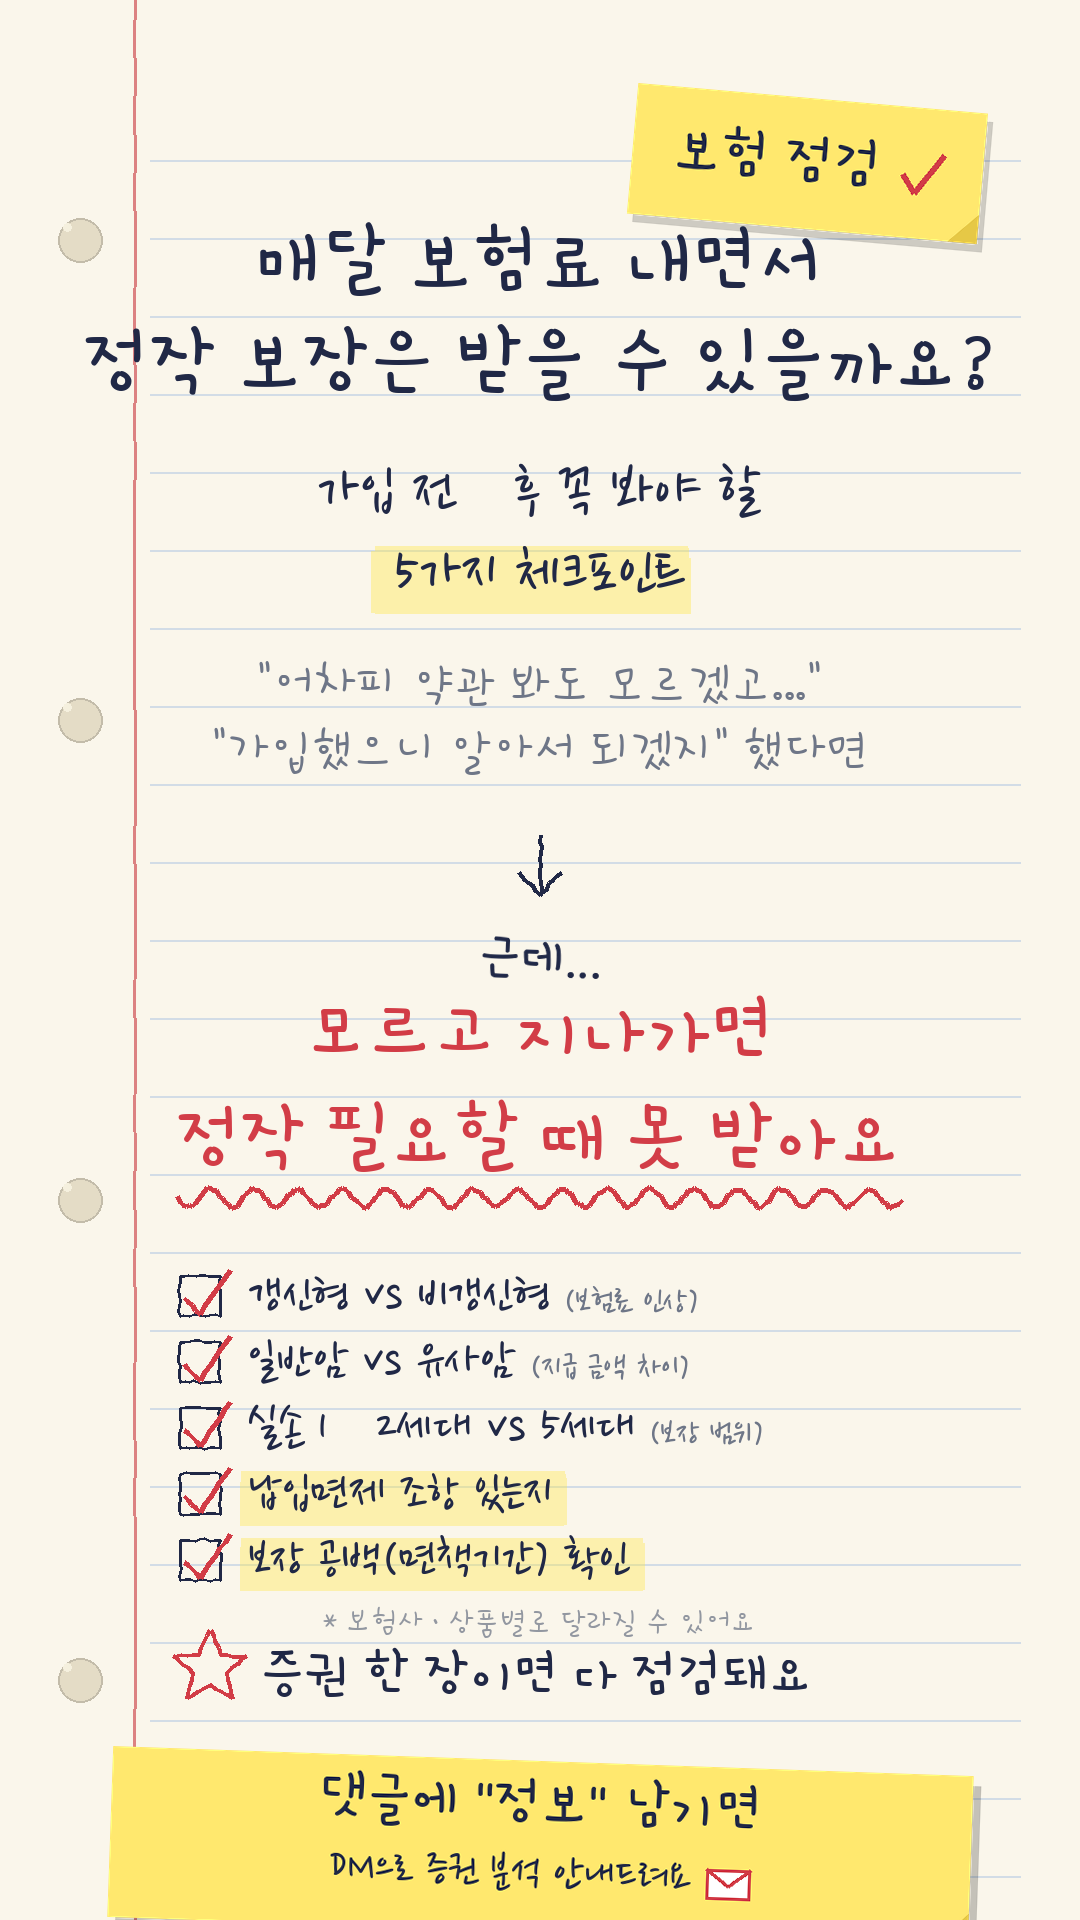
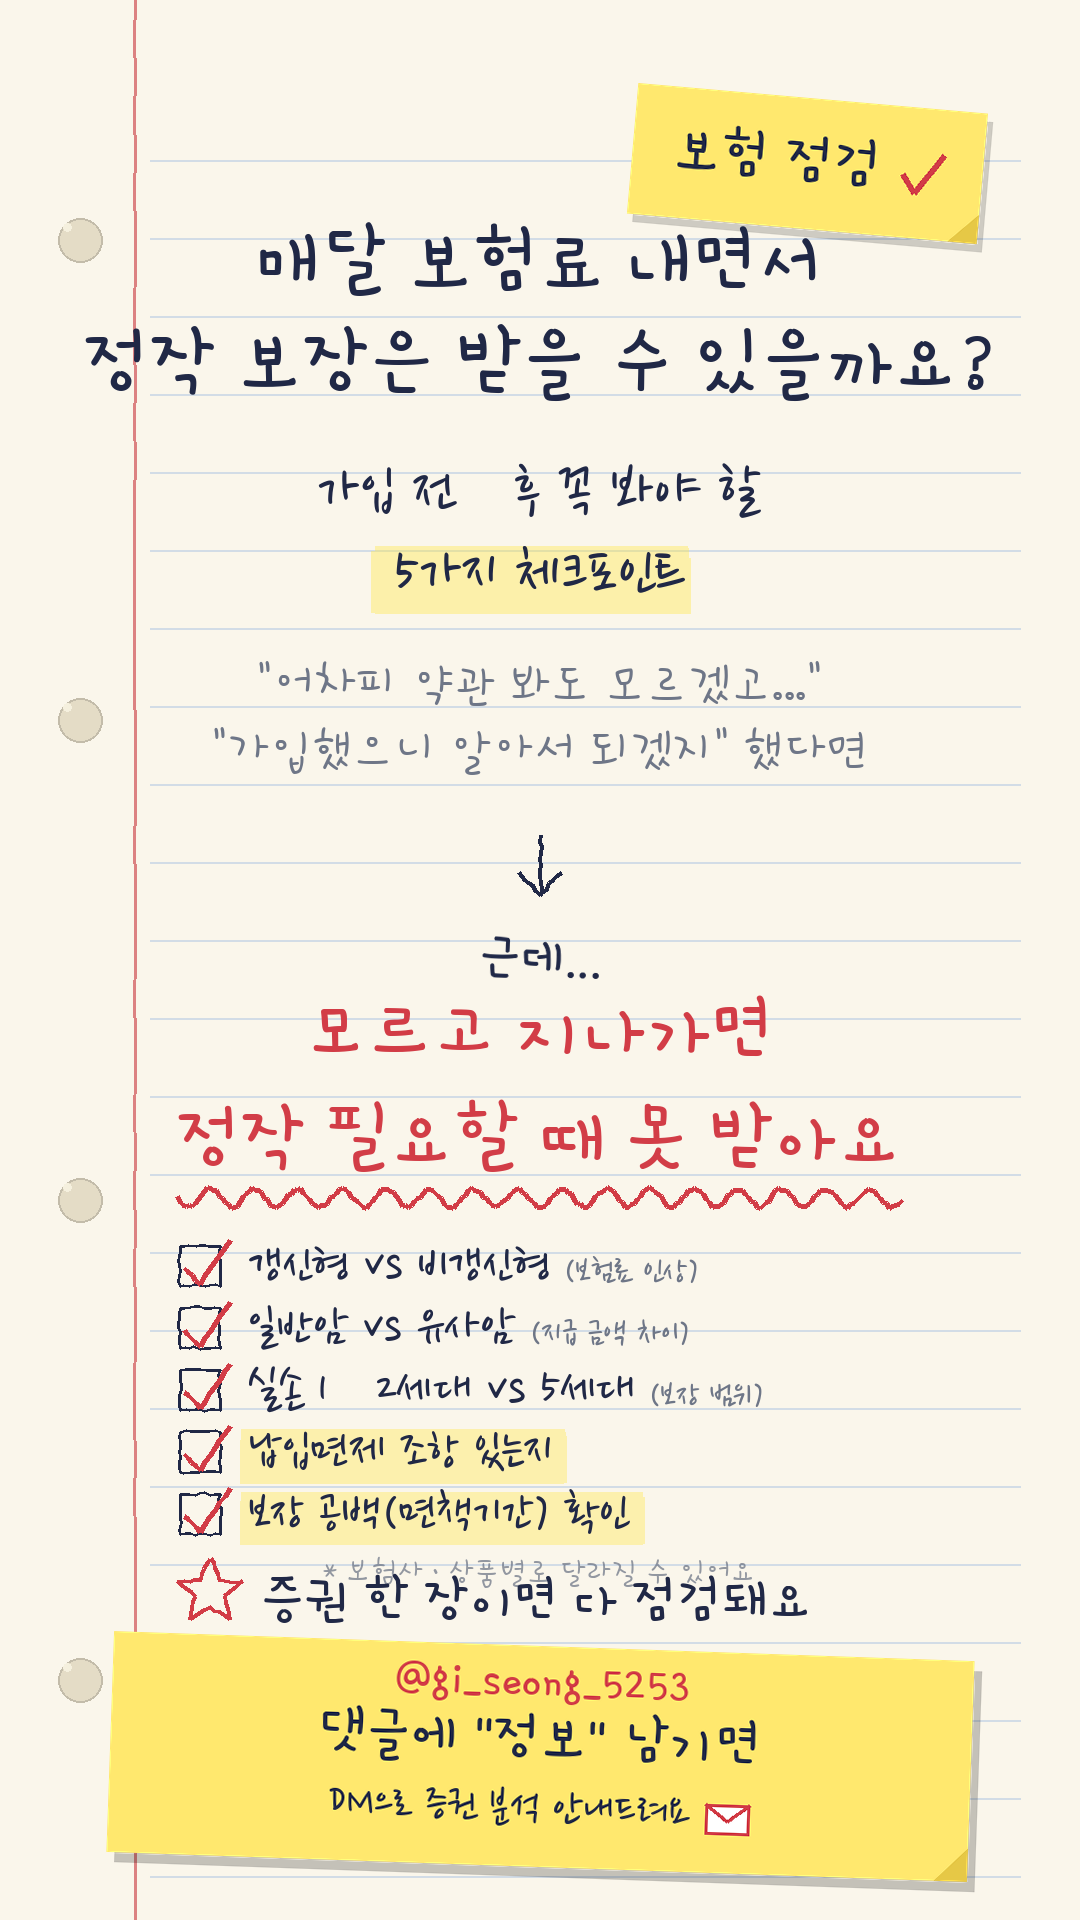
Inject @gi_seong_5253 into Reels CTA + project rule
- Add Instagram ID line (red ink) at top of the bottom CTA sticky in
  reels_01; reflow checklist/star/CTA so they don't overlap.
- Save the rule in CLAUDE.md so future reels always inject the ID.
- Add reels/.gitignore for frames and mp4 output.

https://claude.ai/code/session_01AequftvsX574ZnpuaftTum

Changed region(s): [[0.0917, 0.625, 0.9167, 1.0]]

diff --git a/reels/scripts/reels_01_check.py b/reels/scripts/reels_01_check.py
@@ -192,10 +192,10 @@ def draw_checklist(base, progress_per_item):
     ]
     font = f(NANUM_P, 52)
     sub_font = f(NANUM_P, 36)
-    y_start = 1270
+    y_start = 1240
     x_box = 180
     x_text = 248
-    row_h = 66
+    row_h = 62
 
     for i, (title, sub, hl) in enumerate(items):
         box_p, check_p = progress_per_item[i]
@@ -256,9 +256,9 @@ def draw_checklist(base, progress_per_item):
     base.alpha_composite(layer, (0, y_start + 5 * row_h + 6))
 
 def draw_star_bonus(base, star_progress=1.0, text_progress=1.0):
-    sx, sy = 210, 1668
+    sx, sy = 210, 1592
     if star_progress > 0:
-        size = 38
+        size = 34
         pts = []
         for i in range(10):
             angle = -math.pi/2 + i * math.pi/5
@@ -277,35 +277,41 @@ def draw_star_bonus(base, star_progress=1.0, text_progress=1.0):
         ld = ImageDraw.Draw(layer)
         text = "증권 한 장이면 다 점검돼요"
         ld.text((0, 0), text, fill=INK+(a,), font=font)
-        base.alpha_composite(layer, (260, 1646))
+        base.alpha_composite(layer, (260, 1572))
 
 def draw_cta(base, progress=1.0):
     if progress <= 0: return
     off = int(60 * (1 - progress))
     a = int(255 * progress)
-    sw, sh = 860, 170
+    sw, sh = 860, 220
     pad = 30
     layer = Image.new('RGBA', (sw+pad*2, sh+pad*2), (0,0,0,0))
     ld = ImageDraw.Draw(layer)
     ld.rectangle([pad+8, pad+10, pad+sw+8, pad+sh+10], fill=(0,0,0,55))
     ld.rectangle([pad, pad, pad+sw, pad+sh], fill=STICKY+(a,))
     ld.polygon([(pad+sw, pad+sh-32), (pad+sw, pad+sh), (pad+sw-32, pad+sh)], fill=STICKY_DK+(a,))
+    font_id  = f(GAMJA_P, 50)
     font_big = f(GAMJA_P, 58)
     font_med = f(NANUM_P, 46)
-    line1 = '댓글에 "정보" 남기면'
-    line2 = "DM으로 증권 분석 안내드려요"
-    b1 = ld.textbbox((0,0), line1, font=font_big)
-    b2 = ld.textbbox((0,0), line2, font=font_med)
-    tx1 = pad + (sw - (b1[2]-b1[0]))//2
-    tx2 = pad + (sw - (b2[2]-b2[0]) - 56)//2
-    ld.text((tx1, pad+12), line1, fill=INK+(a,), font=font_big)
-    ld.text((tx2, pad+90), line2, fill=INK+(a,), font=font_med)
+    line_id = "@gi_seong_5253"
+    line1   = '댓글에 "정보" 남기면'
+    line2   = "DM으로 증권 분석 안내드려요"
+    bid = ld.textbbox((0,0), line_id, font=font_id)
+    b1  = ld.textbbox((0,0), line1, font=font_big)
+    b2  = ld.textbbox((0,0), line2, font=font_med)
+    txid = pad + (sw - (bid[2]-bid[0]))//2
+    tx1  = pad + (sw - (b1[2]-b1[0]))//2
+    tx2  = pad + (sw - (b2[2]-b2[0]) - 56)//2
+    ld.text((txid, pad+8),  line_id, fill=RED_INK+(a,), font=font_id)
+    ld.text((tx1,  pad+62), line1,   fill=INK+(a,),     font=font_big)
+    ld.text((tx2,  pad+140), line2,  fill=INK+(a,),     font=font_med)
     ex = tx2 + (b2[2]-b2[0]) + 14
-    ey = pad + 102
+    ey = pad + 152
     ld.rectangle([ex, ey, ex+44, ey+30], fill=(255,255,255,a), outline=RED_INK+(a,), width=3)
     ld.line([(ex, ey), (ex+22, ey+17), (ex+44, ey)], fill=RED_INK+(a,), width=3)
     rot = layer.rotate(-2, resample=Image.BICUBIC, expand=True)
-    base.alpha_composite(rot, ((W - rot.width)//2, 1735 + off - 20))
+    y_paste = H - rot.height - 8 + off
+    base.alpha_composite(rot, ((W - rot.width)//2, y_paste))
 
 def render_frame(frame_idx, save_path=None):
     t = frame_idx / FPS

diff --git a/CLAUDE.md b/CLAUDE.md
@@ -1,0 +1,20 @@
+# Reels Generator — Project Rules
+
+## Instagram ID (필수 삽입)
+
+**`@gi_seong_5253`** — 앞으로 생성하는 모든 릴스 디자인의 **하단 CTA 포스트잇 최상단**에 반드시 빨간 펜 톤(`RED_INK`)으로 삽입.
+
+레이아웃: `@gi_seong_5253` (id) → `댓글에 "정보" 남기면` (메인 카피) → `DM으로 …` (서브)
+
+## 디자인 시스템 / 광고규제 / CTA 규칙
+
+릴스 생성 시 시스템 프롬프트의 디자인 시스템(컬러·폰트·손그림 요소), 애니메이션 타임라인, 보험 광고규제 회피, CTA 통일 규칙을 모두 준수.
+
+## 작업 위치
+
+- 작업 폴더: `reels/`
+- 스크립트: `reels/scripts/reels_NN_<slug>.py`
+- 프레임: `reels/frames/` (gitignore)
+- 영상: `reels/output/reels_NN.mp4` (gitignore)
+- 정적 프리뷰: `reels/output/static_NN_preview.png` (커밋 가능)
+- 폰트: `reels/fonts/`
